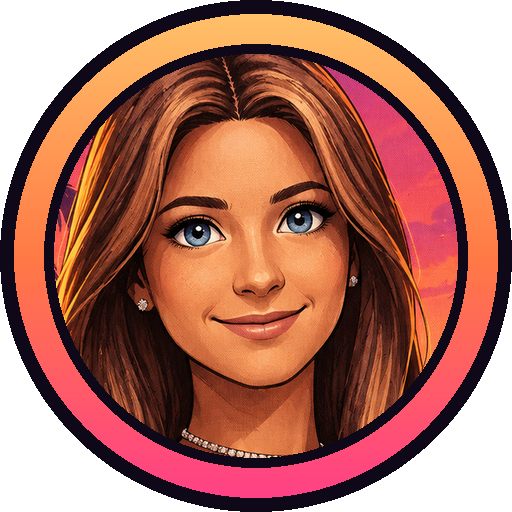
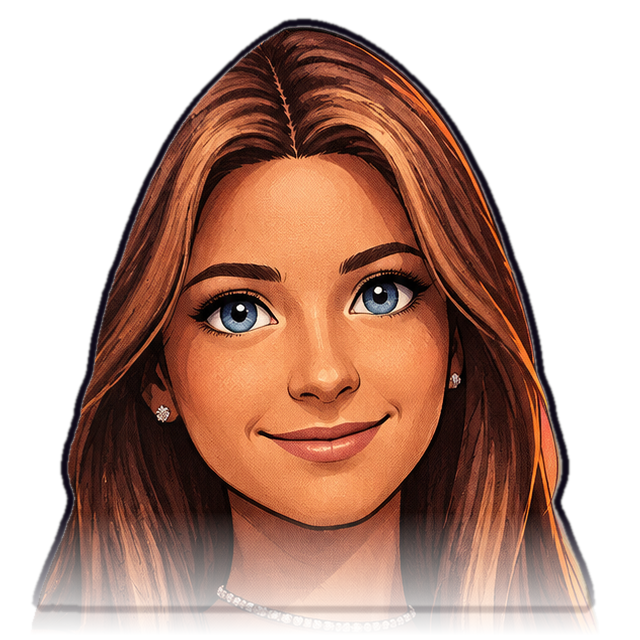
Fase 2.2: spoilers que se tocan pa' ver (⟦spoiler⟧ y <details>) + ícono de Marisol sin fondo
Claude-Session: https://claude.ai/code/session_01SdV8U4AGtTVgzmNSCq95pw

diff --git a/ios/Pockit/Resources/pockit.js b/ios/Pockit/Resources/pockit.js
@@ -164,7 +164,89 @@
     return !!(el && el.closest('[contenteditable="true"], textarea, input'));
   }
 
+  // ---------- Spoilers que se tocan pa' ver ----------
+  // Marisol los manda entre ⟦spoiler title="…"⟧ y ⟦/spoiler⟧ (o el viejo <details>…</details>,
+  // que claude.ai muestra como texto). Aquí se esconden y se cambian por un botón.
+  const SPOILER_START = /⟦spoiler(?:\s+title="([^"]*)")?[^⟧]*⟧|<details>/;
+  const SPOILER_END = /⟦\/spoiler⟧|<\/details>/;
+  const SPOILER_STRIP = /⟦spoiler[^⟧]*⟧|⟦\/spoiler⟧|<\/?details>|<summary>[\s\S]*?<\/summary>/g;
+  let spoilerCount = 0;
+
+  function blockOf(node) {
+    const el = node.nodeType === 3 ? node.parentElement : node;
+    return el ? el.closest("p, li, h1, h2, h3, h4, blockquote, pre, ul, ol, div") : null;
+  }
+
+  function stripText(el) {
+    const w = document.createTreeWalker(el, NodeFilter.SHOW_TEXT);
+    const list = [];
+    while (w.nextNode()) list.push(w.currentNode);
+    for (const t of list) {
+      const v = t.nodeValue.replace(SPOILER_STRIP, "");
+      if (v !== t.nodeValue) t.nodeValue = v;
+    }
+  }
+
+  function processSpoilers() {
+    const walker = document.createTreeWalker(document.body, NodeFilter.SHOW_TEXT, {
+      acceptNode: (n) => (n.nodeValue && SPOILER_START.test(n.nodeValue) && !isEditable(n))
+        ? NodeFilter.FILTER_ACCEPT : NodeFilter.FILTER_REJECT
+    });
+    const starts = [];
+    while (walker.nextNode()) starts.push(walker.currentNode);
+
+    for (const startNode of starts) {
+      const first = blockOf(startNode);
+      if (!first || first.dataset.pockitSpoiler) continue;
+      const m = startNode.nodeValue.match(SPOILER_START);
+      // Si el bloque es un contenedor grande con texto antes del spoiler, no lo escondemos entero.
+      if (first.tagName === "DIV" && (first.innerText || "").indexOf(m ? m[0] : "⟦spoiler") > 20) continue;
+      let title = (m && m[1]) || "";
+      if (!title) {
+        const sm = (first.innerText || "").match(/<summary>([\s\S]*?)<\/summary>/);
+        if (sm) title = sm[1].replace(/⚠|SPOILER:?/gi, "").trim();
+      }
+      // Junta los bloques hasta el cierre. Si todavía no llega (está escribiendo), espera.
+      const blocks = [first];
+      let el = first;
+      let closed = SPOILER_END.test(first.innerText || "");
+      while (!closed && el.nextElementSibling) {
+        el = el.nextElementSibling;
+        blocks.push(el);
+        closed = SPOILER_END.test(el.innerText || "");
+      }
+      if (!closed) continue;
+
+      const id = "s" + (++spoilerCount);
+      for (const b of blocks) {
+        stripText(b);
+        b.dataset.pockitSpoiler = id;
+        b.style.display = "none";
+      }
+      const en = (window.__pockitPrefix || "").includes("lang:en");
+      const btn = document.createElement("button");
+      btn.type = "button";
+      btn.dataset.pockitToggle = id;
+      btn.textContent = "⚠ SPOILER" + (title ? ": " + title : "") + (en ? " · tap to reveal" : " · tocá pa' ver");
+      btn.style.cssText = "display:block;width:100%;text-align:left;margin:12px 0;padding:12px 14px;" +
+        "border-radius:14px;border:1.5px solid #FFB547;background:rgba(255,181,71,0.12);" +
+        "color:#FFF4E6;font:600 15px -apple-system,system-ui,sans-serif;";
+      btn.addEventListener("click", (e) => {
+        e.preventDefault();
+        e.stopPropagation();
+        const open = btn.dataset.open === "1";
+        document.querySelectorAll('[data-pockit-spoiler="' + id + '"]').forEach((b) => {
+          b.style.display = open ? "none" : "";
+        });
+        btn.dataset.open = open ? "0" : "1";
+        btn.style.opacity = open ? "1" : "0.7";
+      });
+      first.parentNode.insertBefore(btn, first);
+    }
+  }
+
   function scan() {
+    try { processSpoilers(); } catch (e) { post({ type: "log", message: "spoiler: " + e }); }
     const walker = document.createTreeWalker(document.body, NodeFilter.SHOW_TEXT, {
       acceptNode: (n) => (n.nodeValue && n.nodeValue.indexOf("⟦") !== -1 && !isEditable(n))
         ? NodeFilter.FILTER_ACCEPT : NodeFilter.FILTER_REJECT
